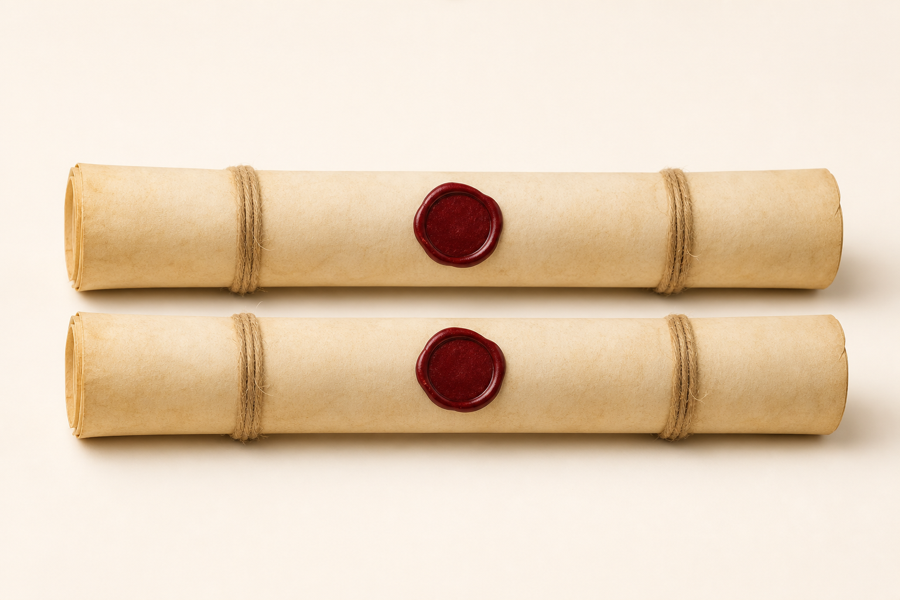
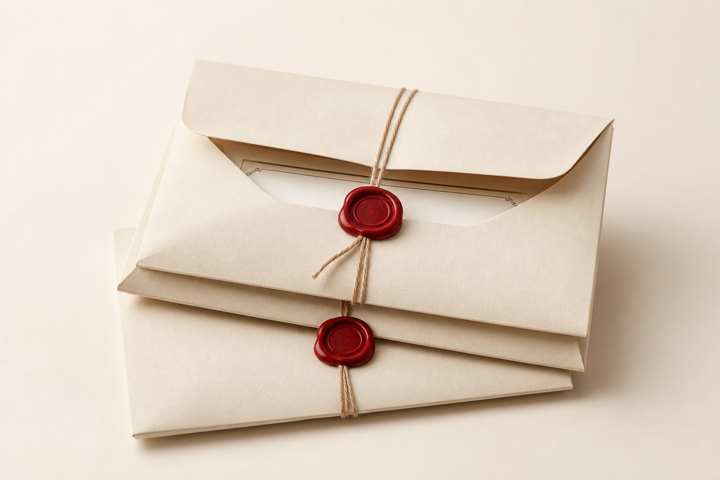
Refine landing add-on imagery and copy.
Use official Aadhaar mark for e-sign, a clearer courier parcel photo, and wax-sealed envelopes for extra original copy; tune card accents and alt text.

diff --git a/components/landing/add-ons-strip.tsx b/components/landing/add-ons-strip.tsx
@@ -29,15 +29,15 @@ const ADD_ONS: Array<{
     title: "Courier delivery",
     desc: "Standard or express hardcopy to the address you provide.",
     image: "/images/add-ons/courier-delivery.png",
-    alt: "Kraft envelopes and seal stamp — courier delivery of agreements",
-    accent: "from-stone-200/30 via-stone-100/40 to-amber-50/35",
+    alt: "Sealed envelopes and parcel box — express courier delivery of agreement copies",
+    accent: "from-amber-100/35 via-stone-200/25 to-emerald-100/25",
   },
   {
     title: "Extra original copy",
     desc: "Additional stamped original when you need more than one set.",
     image: "/images/add-ons/extra-original-copy.png",
-    alt: "Two wax-sealed scrolls — duplicate original copies",
-    accent: "from-orange-50/40 via-amber-100/35 to-stone-100/35",
+    alt: "Two wax-sealed document envelopes — an extra original set for mailing or filing",
+    accent: "from-amber-100/40 via-orange-50/35 to-rose-100/25",
   },
 ];
 